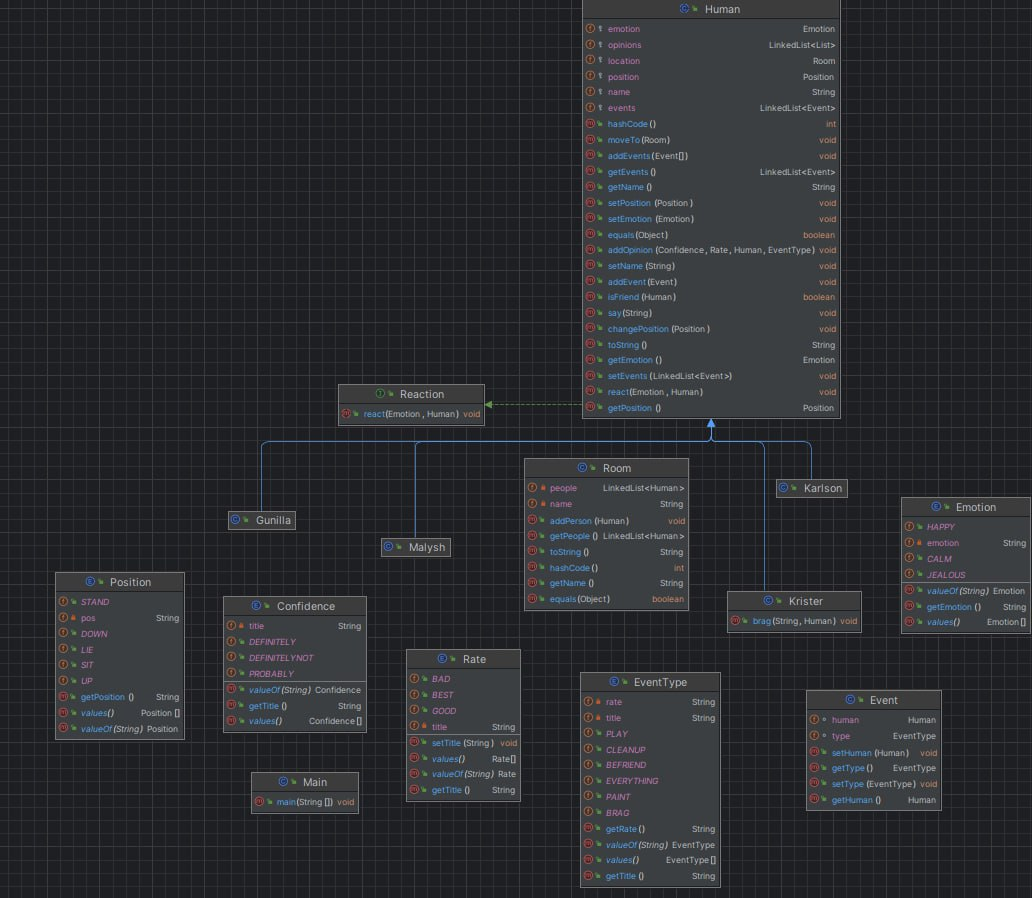
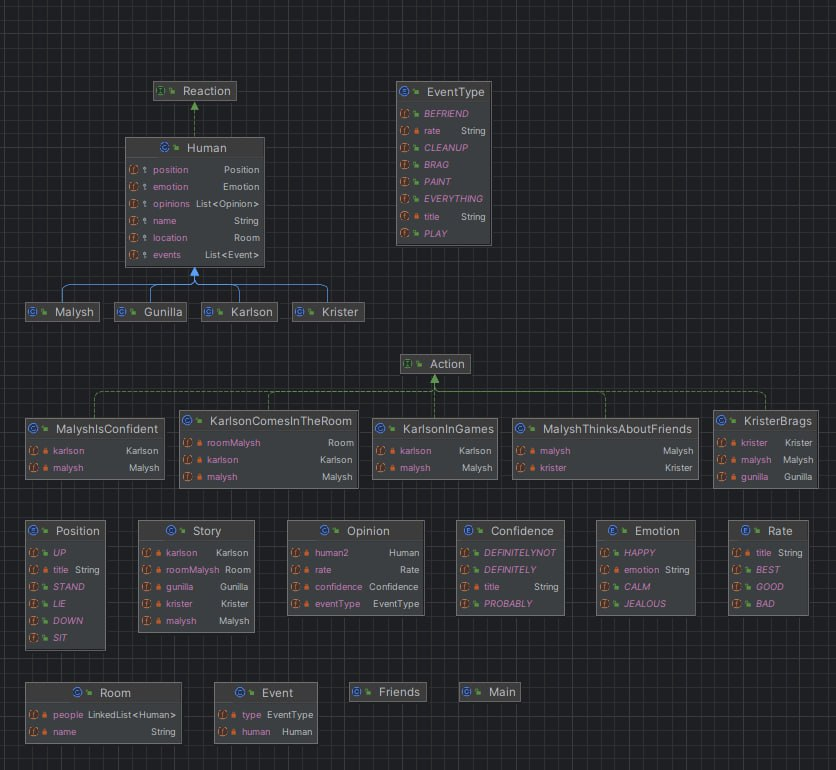
fix: edited UML diagram

diff --git a/README.md b/README.md
@@ -14,7 +14,7 @@
 
 **Диаграмма классов:**
 
-![Diagram](https://github.com/dllnnx/lab3_prog/raw/master/classes_diagram.jpg)
+![Diagram](./classes_diagram.jpg)
 
 
 **Отчет по работе**
